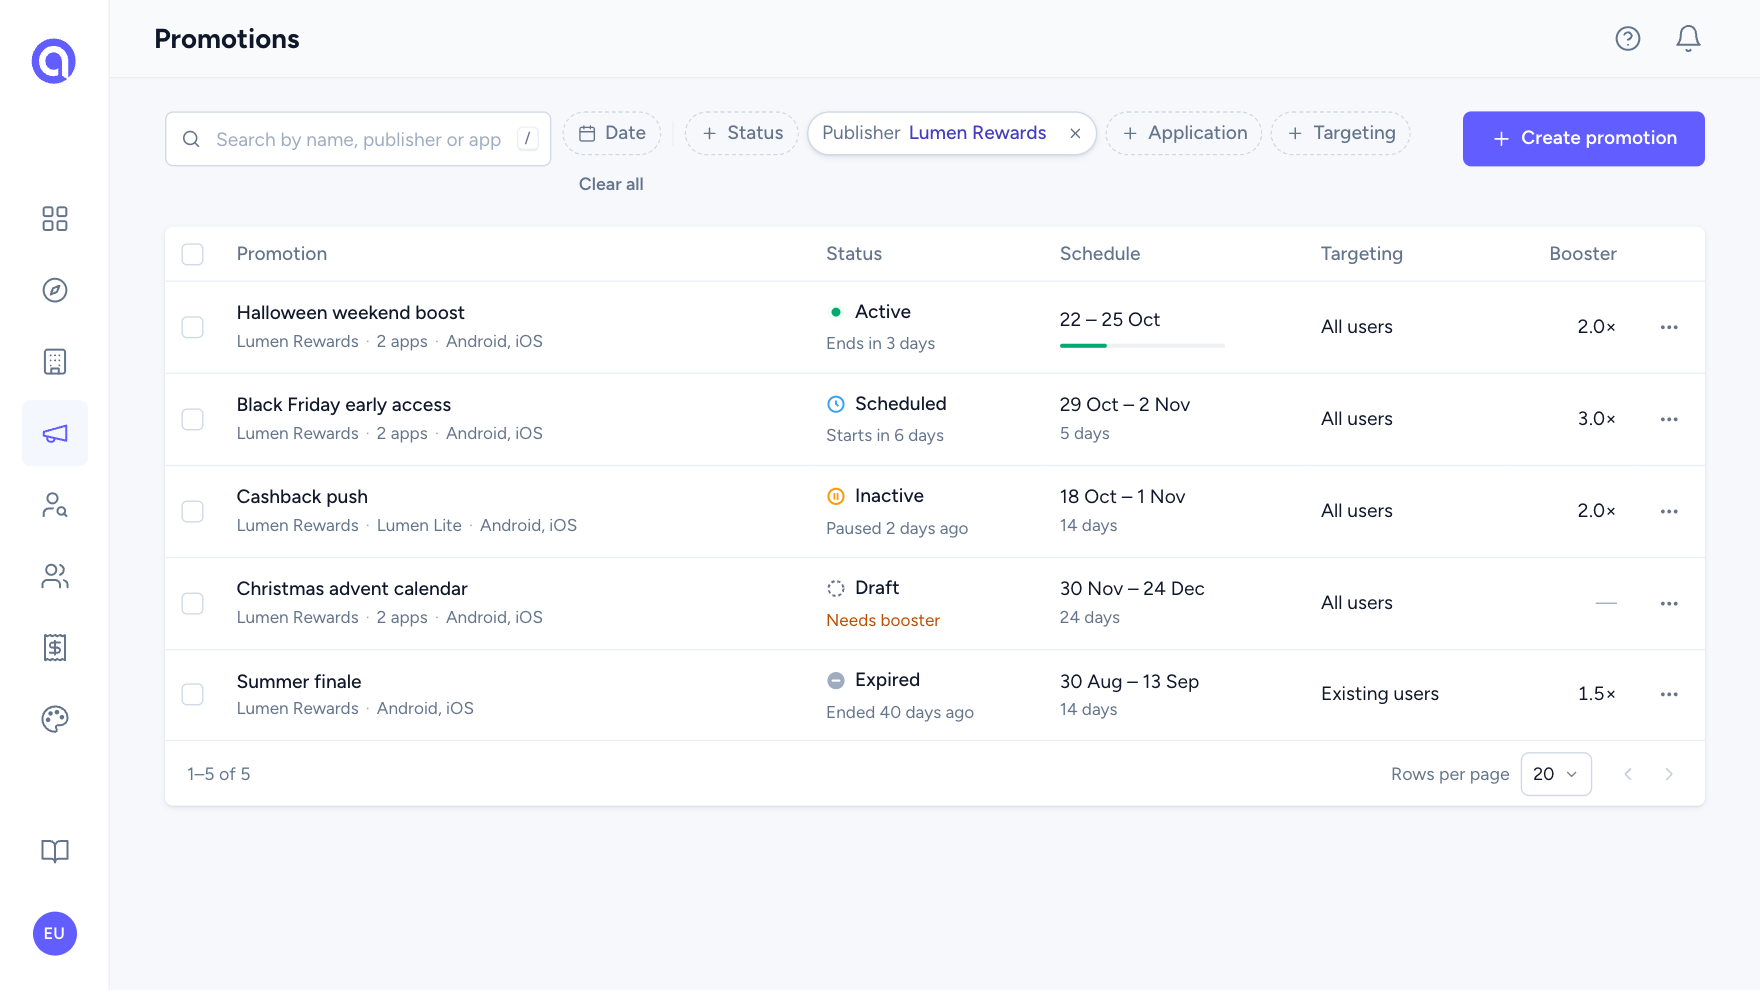
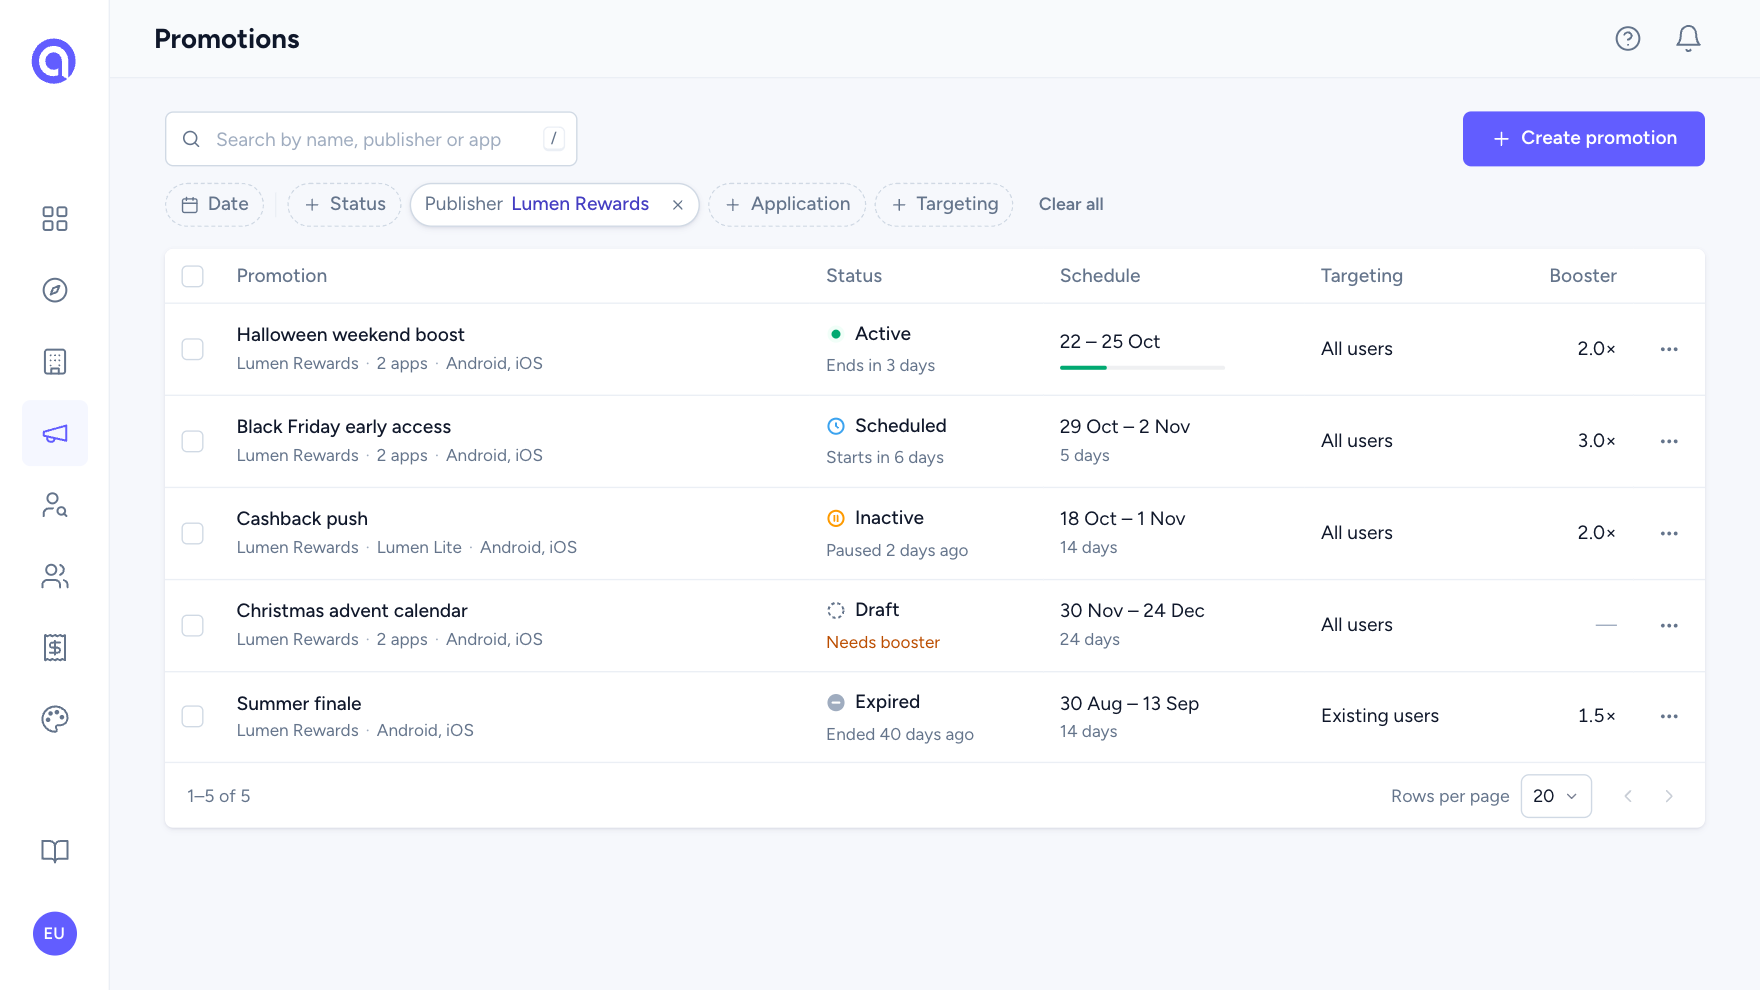
Case 03 and 04: refresh visuals to current components
Case 04 button matrix and component sheet rebuilt from the live v2
components: outlined secondary, neutral ghost, bordered toasts, filter
chips. Case 03 re-recorded with the two row toolbar (search and create,
then filter chips) and the search clear button.

diff --git a/work/design-system/index.html b/work/design-system/index.html
@@ -573,7 +573,7 @@
         </div>
       </div></div></section>
     <section class="d-b"><h3>Leadership and ownership</h3><ul class="lst ld"><li><b>Getting a typeface approved</b><span>I mapped the system and made the case on licence cost, figures and text hierarchy. Nine leaders signed off.</span></li><li><b>Absorbing a late reversal</b><span>Our VP rejected the segmented control in development planning. I produced alternatives and tested them with other leads. The revision is better, and it cost a cycle.</span></li><li><b>Pulling my own feature</b><span>The keyboard focus ring looked right in isolation and clipped in real layouts. I paused it rather than ship a broken accessibility affordance.</span></li></ul></section>
-    <section class="d-b"><h3>What shipped</h3><figure class="d-fig"><picture><source media="(prefers-reduced-motion: reduce)" srcset="images/case-04/tokens-still.png"><img src="images/case-04/tokens.gif" alt="The adjoeBlue ramp mapped to primary.main, dark and strong. Hovering the Create promotion button lights the primary.dark path from adjoeBlue 700; pressing it lights primary.strong from 800" loading="lazy" onerror="figFail(this)"></picture></figure><p class="d-cap">Primitive, role, state, live. Hover the button and primary.dark lights up, press it and primary.strong does. Nothing skips a layer.</p><figure class="d-fig" data-ph="button.png · Button, hierarchies, colours and states"><img src="images/case-04/button.png" alt="The button matrix: primary, secondary and ghost across brand, danger and neutral, in six states including focus and loading" loading="lazy" onerror="figFail(this)"></figure><p class="d-cap">Button had the largest gap from best practice, so it became the proving ground for the colour system: three hierarchies, three colours, six states.</p></section>
+    <section class="d-b"><h3>What shipped</h3><figure class="d-fig"><picture><source media="(prefers-reduced-motion: reduce)" srcset="images/case-04/tokens-still.png"><img src="images/case-04/tokens.gif" alt="The adjoeBlue ramp mapped to primary.main, dark and strong. Hovering the Create promotion button lights the primary.dark path from adjoeBlue 700; pressing it lights primary.strong from 800" loading="lazy" onerror="figFail(this)"></picture></figure><p class="d-cap">Primitive, role, state, live. Hover the button and primary.dark lights up, press it and primary.strong does. Nothing skips a layer.</p><figure class="d-fig" data-ph="button.png · Button, hierarchies, colours and states"><img src="images/case-04/button.png" alt="The button matrix: primary and secondary in brand and danger, ghost in neutral, each in default, hover, pressed, focus, disabled and loading" loading="lazy" onerror="figFail(this)"></figure><p class="d-cap">Button had the largest gap from best practice, so it became the proving ground for the colour system: three hierarchies, three colours, six states.</p></section>
     <section class="d-b"><h3>Impact</h3><div class="d-imp"><div><b>200+ issues closed</b><span>about ten per page across roughly twenty pages, found by audit</span></div><div><b>3-4h to under 1h</b><span>weekly frontend review, since component correctness stopped being a manual check</span></div><div><b>10 components</b><span>refactored with full state coverage, each a paired design and development task</span></div></div><p class="note">The QA number is the one I defend. Review used to mean checking every component against the file by hand. Now it covers flow and behaviour, about 130 hours a year back.</p></section>
     <figure class="d-q"><blockquote>In a fast paced company with a lot of tech debt, Erdem always found a workaround. Sometimes an alternative design, sometimes more detail on how our product is structured. What he does best is provide solutions rather than become a bottleneck when times are hard.</blockquote><figcaption><b>Puru</b>, Senior Frontend Engineer, adjoe</figcaption></figure>
     <details class="more"><summary><span class="pm"></span>More: the system underneath, agent readability, more screens and what comes next</summary><div class="more-in"><section class="d-b"><h3>The system underneath</h3><p>Four layers. Components never reference a primitive.</p>
@@ -583,7 +583,7 @@
         <div class="sys-c"><u>Interaction</u><ul><li>Rest at 0%</li><li>Hover at 4%</li><li>Pressed at 8%</li></ul></div>
         <div class="sys-c"><u>Structural</u><ul><li>Spacing tokens</li><li>Radius tokens</li><li>Elevation, redefined</li></ul></div></div>
         <p class="sys-n">The interaction and structural layers did not exist before. They are why a component declares its own states instead of an engineer deciding them per screen.</p></div></section><section class="d-b"><h3>Built to be read by agents</h3><p>Coding agents read the system as well as people. That was a goal from the start.</p>
-      <ul class="lst ld"><li><b>Ask what it needs first</b><span>I ask the model how it wants to read a component. Where its expectations differ from our structure, our definitions are usually ambiguous.</span></li><li><b>Fetch state, not screenshots</b><span>An MCP connection pulls component states and specs into the codebase, so generated code references the system itself.</span></li></ul></section><section class="d-b"><h3>Foundations</h3><figure class="d-fig" data-ph="greys.png · Grey ramp, mixed to cool grey"><img src="images/case-04/greys.png" alt="The grey ramp before and after, mixed cool and neutral tones resolved into one cool grey family" loading="lazy" onerror="figFail(this)"></figure><p class="d-cap">The old ramp mixed cool and neutral greys with no rule, so two adjacent surfaces could disagree.</p><figure class="d-fig" data-ph="semantic.png · Five roles, four tones each"><img src="images/case-04/semantic.png" alt="Five semantic colour roles, each with main, light, dark and strong tones" loading="lazy" onerror="figFail(this)"></figure><p class="d-cap">Five roles, four tones each, so no component derives a state colour on its own.</p><figure class="d-fig" data-ph="opacity.png · Interaction states, 4 and 8 percent"><img src="images/case-04/opacity.png" alt="Ghost buttons at rest, hover and pressed on three different surfaces, using a 4 and 8 percent overlay" loading="lazy" onerror="figFail(this)"></figure><p class="d-cap">One overlay, 4% on hover and 8% pressed, holding up on every surface it sits on.</p><figure class="d-fig" data-ph="structural.png · Spacing, radius, elevation"><img src="images/case-04/structural.png" alt="The spacing scale on an 8 pixel base, radius tokens, and five elevation levels from none to prominent" loading="lazy" onerror="figFail(this)"></figure><p class="d-cap">Spacing, radius and elevation. The blurred cards came from elevation that had only ever been approximated.</p><figure class="d-fig" data-ph="icons.png · Icon ruleset, 16 and 24 only"><img src="images/case-04/icons.png" alt="An icon magnified on its 24 pixel grid, beside the set drawn at the two permitted sizes, 16 and 24" loading="lazy" onerror="figFail(this)"></figure><p class="d-cap">Two icon sizes, 16 and 24. Every other size was a source of misalignment.</p></section><section class="d-b"><h3>Components, and the one I pulled</h3><figure class="d-fig" data-ph="segment.png · Segmented control, before and after review"><img src="images/case-04/segment.png" alt="The segmented control as first designed, beside the revised version after leadership review" loading="lazy" onerror="figFail(this)"></figure><p class="d-cap">Segmented control, before and after our VP sent it back from development planning.</p><figure class="d-fig" data-ph="components.png · The ten refactored components"><img src="images/case-04/components.png" alt="Six refactored components: input, switch, checkbox and radio, snackbar, chip and time picker" loading="lazy" onerror="figFail(this)"></figure><p class="d-cap">Part of the refactored set. Each shipped as a paired design and development task, checked in Storybook and a sandbox.</p><figure class="d-fig" data-ph="focus.png · Focus ring clipped by flush wrappers"><img src="images/case-04/focus.png" alt="The same focused button inside a filter panel, inset with its ring intact, and flush to the edge with the ring clipped" loading="lazy" onerror="figFail(this)"></figure><p class="d-cap">Why the focus ring is paused. Wrappers sit flush to component edges, so the ring clips inside dialogs and filter panels.</p></section><section class="d-b"><h3>What comes next</h3><p>Two threads open: the focus ring, waiting on a container fix, and agent readability.</p>
+      <ul class="lst ld"><li><b>Ask what it needs first</b><span>I ask the model how it wants to read a component. Where its expectations differ from our structure, our definitions are usually ambiguous.</span></li><li><b>Fetch state, not screenshots</b><span>An MCP connection pulls component states and specs into the codebase, so generated code references the system itself.</span></li></ul></section><section class="d-b"><h3>Foundations</h3><figure class="d-fig" data-ph="greys.png · Grey ramp, mixed to cool grey"><img src="images/case-04/greys.png" alt="The grey ramp before and after, mixed cool and neutral tones resolved into one cool grey family" loading="lazy" onerror="figFail(this)"></figure><p class="d-cap">The old ramp mixed cool and neutral greys with no rule, so two adjacent surfaces could disagree.</p><figure class="d-fig" data-ph="semantic.png · Five roles, four tones each"><img src="images/case-04/semantic.png" alt="Five semantic colour roles, each with main, light, dark and strong tones" loading="lazy" onerror="figFail(this)"></figure><p class="d-cap">Five roles, four tones each, so no component derives a state colour on its own.</p><figure class="d-fig" data-ph="opacity.png · Interaction states, 4 and 8 percent"><img src="images/case-04/opacity.png" alt="Ghost buttons at rest, hover and pressed on three different surfaces, using a 4 and 8 percent overlay" loading="lazy" onerror="figFail(this)"></figure><p class="d-cap">One overlay, 4% on hover and 8% pressed, holding up on every surface it sits on.</p><figure class="d-fig" data-ph="structural.png · Spacing, radius, elevation"><img src="images/case-04/structural.png" alt="The spacing scale on an 8 pixel base, radius tokens, and five elevation levels from none to prominent" loading="lazy" onerror="figFail(this)"></figure><p class="d-cap">Spacing, radius and elevation. The blurred cards came from elevation that had only ever been approximated.</p><figure class="d-fig" data-ph="icons.png · Icon ruleset, 16 and 24 only"><img src="images/case-04/icons.png" alt="An icon magnified on its 24 pixel grid, beside the set drawn at the two permitted sizes, 16 and 24" loading="lazy" onerror="figFail(this)"></figure><p class="d-cap">Two icon sizes, 16 and 24. Every other size was a source of misalignment.</p></section><section class="d-b"><h3>Components, and the one I pulled</h3><figure class="d-fig" data-ph="segment.png · Segmented control, before and after review"><img src="images/case-04/segment.png" alt="The segmented control as first designed, beside the revised version after leadership review" loading="lazy" onerror="figFail(this)"></figure><p class="d-cap">Segmented control, before and after our VP sent it back from development planning.</p><figure class="d-fig" data-ph="components.png · The ten refactored components"><img src="images/case-04/components.png" alt="Six refactored components: input, switch, checkbox and radio, toast, filter chip and time picker" loading="lazy" onerror="figFail(this)"></figure><p class="d-cap">Part of the refactored set. Each shipped as a paired design and development task, checked in Storybook and a sandbox.</p><figure class="d-fig" data-ph="focus.png · Focus ring clipped by flush wrappers"><img src="images/case-04/focus.png" alt="The same focused button inside a filter panel, inset with its ring intact, and flush to the edge with the ring clipped" loading="lazy" onerror="figFail(this)"></figure><p class="d-cap">Why the focus ring is paused. Wrappers sit flush to component edges, so the ring clips inside dialogs and filter panels.</p></section><section class="d-b"><h3>What comes next</h3><p>Two threads open: the focus ring, waiting on a container fix, and agent readability.</p>
       <div class="road">
         <div class="rc"><div class="rh">Quick wins <span>2</span></div>
           <div class="ri"><b>Reserve a focus inset</b><span>A spacing token so a focus ring always has room to render.</span></div><div class="ri"><b>State coverage as a rule</b><span>A component without hover, pressed and focus tones does not pass review.</span></div></div>
@@ -1352,13 +1352,13 @@ const P = [
     ]},
     {label:'Components, and the one I pulled',items:[
       {src:'images/case-04/button.png',ph:'button.png · Button, hierarchies, colours and states',
-       alt:'The button matrix: primary, secondary and ghost across brand, danger and neutral, in six states including focus and loading',
+       alt:'The button matrix: primary and secondary in brand and danger, ghost in neutral, each in default, hover, pressed, focus, disabled and loading',
        cap:'Button had the largest gap from best practice, so it became the proving ground for the colour system: three hierarchies, three colours, six states.'},
       {src:'images/case-04/segment.png',ph:'segment.png · Segmented control, before and after review',
        alt:'The segmented control as first designed, beside the revised version after leadership review',
        cap:'Segmented control, before and after our VP sent it back from development planning.'},
       {src:'images/case-04/components.png',ph:'components.png · The ten refactored components',
-       alt:'Six refactored components: input, switch, checkbox and radio, snackbar, chip and time picker',
+       alt:'Six refactored components: input, switch, checkbox and radio, toast, filter chip and time picker',
        cap:'Part of the refactored set. Each shipped as a paired design and development task, checked in Storybook and a sandbox.'},
       {src:'images/case-04/focus.png',ph:'focus.png · Focus ring clipped by flush wrappers',
        alt:'The same focused button inside a filter panel, inset with its ring intact, and flush to the edge with the ring clipped',

diff --git a/index.html b/index.html
@@ -1288,13 +1288,13 @@ const P = [
     ]},
     {label:'Components, and the one I pulled',items:[
       {src:'images/case-04/button.png',ph:'button.png · Button, hierarchies, colours and states',
-       alt:'The button matrix: primary, secondary and ghost across brand, danger and neutral, in six states including focus and loading',
+       alt:'The button matrix: primary and secondary in brand and danger, ghost in neutral, each in default, hover, pressed, focus, disabled and loading',
        cap:'Button had the largest gap from best practice, so it became the proving ground for the colour system: three hierarchies, three colours, six states.'},
       {src:'images/case-04/segment.png',ph:'segment.png · Segmented control, before and after review',
        alt:'The segmented control as first designed, beside the revised version after leadership review',
        cap:'Segmented control, before and after our VP sent it back from development planning.'},
       {src:'images/case-04/components.png',ph:'components.png · The ten refactored components',
-       alt:'Six refactored components: input, switch, checkbox and radio, snackbar, chip and time picker',
+       alt:'Six refactored components: input, switch, checkbox and radio, toast, filter chip and time picker',
        cap:'Part of the refactored set. Each shipped as a paired design and development task, checked in Storybook and a sandbox.'},
       {src:'images/case-04/focus.png',ph:'focus.png · Focus ring clipped by flush wrappers',
        alt:'The same focused button inside a filter panel, inset with its ring intact, and flush to the edge with the ring clipped',

diff --git a/work/configuration/index.html b/work/configuration/index.html
@@ -1345,13 +1345,13 @@ const P = [
     ]},
     {label:'Components, and the one I pulled',items:[
       {src:'images/case-04/button.png',ph:'button.png · Button, hierarchies, colours and states',
-       alt:'The button matrix: primary, secondary and ghost across brand, danger and neutral, in six states including focus and loading',
+       alt:'The button matrix: primary and secondary in brand and danger, ghost in neutral, each in default, hover, pressed, focus, disabled and loading',
        cap:'Button had the largest gap from best practice, so it became the proving ground for the colour system: three hierarchies, three colours, six states.'},
       {src:'images/case-04/segment.png',ph:'segment.png · Segmented control, before and after review',
        alt:'The segmented control as first designed, beside the revised version after leadership review',
        cap:'Segmented control, before and after our VP sent it back from development planning.'},
       {src:'images/case-04/components.png',ph:'components.png · The ten refactored components',
-       alt:'Six refactored components: input, switch, checkbox and radio, snackbar, chip and time picker',
+       alt:'Six refactored components: input, switch, checkbox and radio, toast, filter chip and time picker',
        cap:'Part of the refactored set. Each shipped as a paired design and development task, checked in Storybook and a sandbox.'},
       {src:'images/case-04/focus.png',ph:'focus.png · Focus ring clipped by flush wrappers',
        alt:'The same focused button inside a filter panel, inset with its ring intact, and flush to the edge with the ring clipped',

diff --git a/work/promotions/index.html b/work/promotions/index.html
@@ -1340,13 +1340,13 @@ const P = [
     ]},
     {label:'Components, and the one I pulled',items:[
       {src:'images/case-04/button.png',ph:'button.png · Button, hierarchies, colours and states',
-       alt:'The button matrix: primary, secondary and ghost across brand, danger and neutral, in six states including focus and loading',
+       alt:'The button matrix: primary and secondary in brand and danger, ghost in neutral, each in default, hover, pressed, focus, disabled and loading',
        cap:'Button had the largest gap from best practice, so it became the proving ground for the colour system: three hierarchies, three colours, six states.'},
       {src:'images/case-04/segment.png',ph:'segment.png · Segmented control, before and after review',
        alt:'The segmented control as first designed, beside the revised version after leadership review',
        cap:'Segmented control, before and after our VP sent it back from development planning.'},
       {src:'images/case-04/components.png',ph:'components.png · The ten refactored components',
-       alt:'Six refactored components: input, switch, checkbox and radio, snackbar, chip and time picker',
+       alt:'Six refactored components: input, switch, checkbox and radio, toast, filter chip and time picker',
        cap:'Part of the refactored set. Each shipped as a paired design and development task, checked in Storybook and a sandbox.'},
       {src:'images/case-04/focus.png',ph:'focus.png · Focus ring clipped by flush wrappers',
        alt:'The same focused button inside a filter panel, inset with its ring intact, and flush to the edge with the ring clipped',

diff --git a/work/support/index.html b/work/support/index.html
@@ -1352,13 +1352,13 @@ const P = [
     ]},
     {label:'Components, and the one I pulled',items:[
       {src:'images/case-04/button.png',ph:'button.png · Button, hierarchies, colours and states',
-       alt:'The button matrix: primary, secondary and ghost across brand, danger and neutral, in six states including focus and loading',
+       alt:'The button matrix: primary and secondary in brand and danger, ghost in neutral, each in default, hover, pressed, focus, disabled and loading',
        cap:'Button had the largest gap from best practice, so it became the proving ground for the colour system: three hierarchies, three colours, six states.'},
       {src:'images/case-04/segment.png',ph:'segment.png · Segmented control, before and after review',
        alt:'The segmented control as first designed, beside the revised version after leadership review',
        cap:'Segmented control, before and after our VP sent it back from development planning.'},
       {src:'images/case-04/components.png',ph:'components.png · The ten refactored components',
-       alt:'Six refactored components: input, switch, checkbox and radio, snackbar, chip and time picker',
+       alt:'Six refactored components: input, switch, checkbox and radio, toast, filter chip and time picker',
        cap:'Part of the refactored set. Each shipped as a paired design and development task, checked in Storybook and a sandbox.'},
       {src:'images/case-04/focus.png',ph:'focus.png · Focus ring clipped by flush wrappers',
        alt:'The same focused button inside a filter panel, inset with its ring intact, and flush to the edge with the ring clipped',
